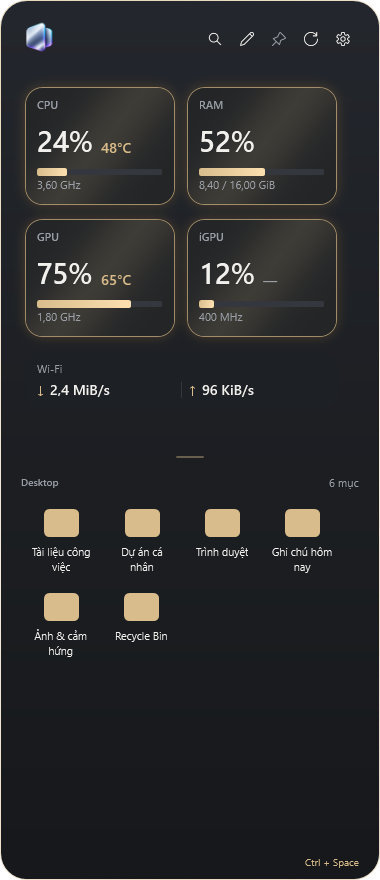
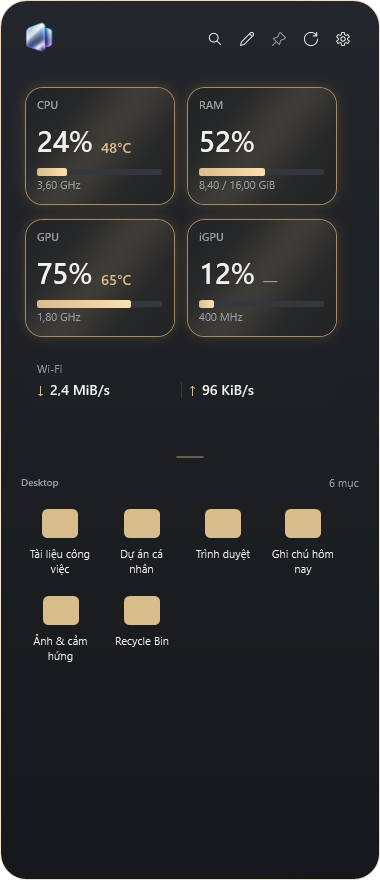
Record the public RC checks and refresh the README images

diff --git a/docs/images/README.md b/docs/images/README.md
@@ -1,30 +1,30 @@
 # 🖼 Image provenance · Nguồn ảnh
 
-Both images were generated together on **24 October 2026** from a fresh Release rebuild. No user screenshot or prior QA image was used.
+Both images were generated together on **2 November 2026** from a fresh Release rebuild. No user screenshot or prior QA image was used.
 
-Hai ảnh được tạo cùng lượt ngày **24/10/2026** từ Release rebuild mới; không dùng ảnh người dùng hoặc kết quả QA cũ.
+Hai ảnh được tạo cùng lượt ngày **02/11/2026** từ Release rebuild mới; không dùng ảnh người dùng hoặc kết quả QA cũ.
 
 ## Source · Nguồn
 
 | Field / Trường | Value / Giá trị |
 | --- | --- |
-| Commit | `482575f32724eb57e1add3e26359503ee3d167a7` — branch `chore/release-prep`, clean tree before build / nhánh `chore/release-prep`, cây sạch trước build |
-| src Git tree | `2f7dd41022a8150a2f558c9afe2e977e419b0b7c` |
-| ProductVersion | `1.0.0-beta.1+482575f32724eb57e1add3e26359503ee3d167a7` |
+| Commit | `2fa1e783f911450194aff400fc7de7a80c018498` — the source of tag `v2.0.0-rc.1` / mã nguồn của tag `v2.0.0-rc.1` |
+| src Git tree | `737bd204bb428d5fd7c96ca153464e3163753fe4` |
+| ProductVersion | `2.0.0-rc.1+2fa1e783f911450194aff400fc7de7a80c018498` (built just before that commit, from the same `src` tree / dựng ngay trước commit đó, cùng cây `src`) |
 | Build | Release · Windows x64 |
[1 lines of base64/hex data omitted]
-| UI verification / Kiểm thử | 1970 passed / đạt · 0 failed / lỗi; native collector disabled / tắt collector thật |
[1 lines of base64/hex data omitted]
+| UI verification / Kiểm thử | 2151 passed / đạt · 0 failed / lỗi; native collector disabled / tắt collector thật |
 
 ## Images · Ảnh
 
 | Image | Render | SHA-256 |
 | --- | --- | --- |
[4 lines of base64/hex data omitted]
 
-Dark/Champagne, Vietnamese UI. Real WPF views rendered in an isolated fixture; not screenshots of the user's running desktop. Panel names, icons and telemetry are illustrative. Settings uses vertical navigation at this width and shows the Shortcuts section, translated buttons and no explanatory captions.
+Dark/Champagne, Vietnamese UI. Real WPF views rendered in an isolated fixture; not screenshots of the user's running desktop. Panel names, icons and telemetry are illustrative. Settings uses vertical navigation at this width and opens on Appearance, with no explanatory captions.
 
-Giao diện tối/Champagne, tiếng Việt. View WPF thật được render trong fixture cô lập, không phải screenshot Desktop người dùng. Tên mục, icon và số đo panel là minh họa. Settings dùng menu dọc ở kích thước này, có mục Phím tắt, nút đã Việt hóa và không còn dòng giải thích.
+Giao diện tối/Champagne, tiếng Việt. View WPF thật được render trong fixture cô lập, không phải screenshot Desktop người dùng. Tên mục, icon và số đo panel là minh họa. Settings dùng menu dọc ở kích thước này, mở ở mục Giao diện và không có dòng giải thích.
 
 ## Reproduce · Tái tạo
 
